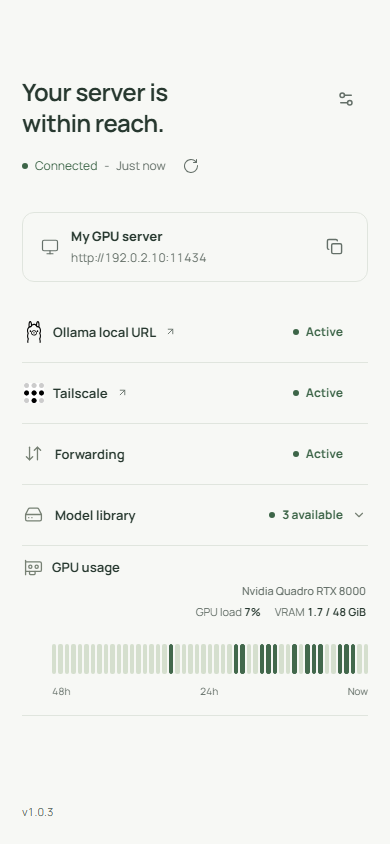
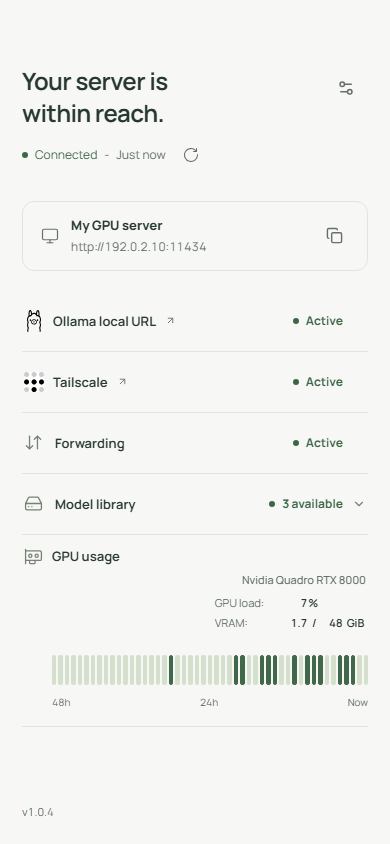
Keep GPU load and VRAM readings aligned on separate lines

diff --git a/app/tests/gpu-metrics.spec.ts b/app/tests/gpu-metrics.spec.ts
@@ -42,7 +42,7 @@ async function installHost(page: Page) {
 
 test('paired GPU load and memory sit below the name and refresh without a readiness probe', async ({ page }) => {
   await installHost(page);
-  await expect(page.locator('.gpu-metrics')).toContainText('VRAM 16 / 48 GiB');
+  await expect(page.locator('.gpu-metrics')).toContainText('VRAM: 16.0 / 48 GiB');
   await expect(page.locator('.gpu-details')).toHaveCSS('text-align', 'right');
   await expect(page.getByText('Remote GPU:', { exact: false })).toHaveCount(0);
   const name = await page.locator('.gpu-name').boundingBox();
@@ -51,22 +51,22 @@ test('paired GPU load and memory sit below the name and refresh without a readin
   const checks = await page.evaluate(() => window.gpuFixture.checks);
   await page.evaluate(() => { window.gpuFixture.metrics!.devices[0].loadPercent = 0; window.gpuFixture.metrics!.devices[0].memoryUsedMib = 0; });
   await page.clock.runFor(5100);
-  await expect(page.locator('.gpu-metrics')).toContainText('GPU load 0%');
-  await expect(page.locator('.gpu-metrics')).toContainText('VRAM 0 / 48 GiB');
+  await expect(page.locator('.gpu-metrics')).toContainText('GPU load: 0%');
+  await expect(page.locator('.gpu-metrics')).toContainText('VRAM: 0.0 / 48 GiB');
   expect(await page.evaluate(() => window.gpuFixture.checks)).toBe(checks);
   await page.evaluate(() => { window.gpuFixture.metrics!.devices[0].loadPercent = null; });
   await page.clock.runFor(5100);
-  await expect(page.locator('.gpu-metrics')).toContainText('GPU load N/A');
-  await expect(page.locator('.gpu-metrics')).toContainText('VRAM 0 / 48 GiB');
+  await expect(page.locator('.gpu-metrics')).toContainText('GPU load: N/A');
+  await expect(page.locator('.gpu-metrics')).toContainText('VRAM: 0.0 / 48 GiB');
 });
 
 test('expired GPU readings disappear even while the next request is stalled', async ({ page }) => {
   await installHost(page);
   await page.evaluate(() => { window.gpuFixture.hold = true; window.gpuFixture.metrics!.sampleAgeMs = 15001; });
   await page.clock.runFor(16000);
-  await expect(page.locator('.gpu-metrics')).toHaveText('GPU load N/AVRAM N/A');
+  await expect(page.locator('.gpu-metrics')).toHaveText('GPU load: N/AVRAM: N/A');
   await page.evaluate(() => { window.gpuFixture.hold = false; window.gpuFixture.release.splice(0).forEach(resolve => resolve()); });
-  await expect(page.locator('.gpu-metrics')).toHaveText('GPU load N/AVRAM N/A');
+  await expect(page.locator('.gpu-metrics')).toHaveText('GPU load: N/AVRAM: N/A');
   await expect(page.getByRole('heading', { name: 'Your server is within reach.' })).toBeVisible();
 });
 
@@ -79,13 +79,13 @@ test('hidden windows pause polling and resume with new readings', async ({ page 
   const before = await page.evaluate(() => window.gpuFixture.calls);
   await page.clock.runFor(20000);
   expect(await page.evaluate(() => window.gpuFixture.calls)).toBe(before);
-  await expect(page.locator('.gpu-metrics')).toContainText('GPU load N/A');
+  await expect(page.locator('.gpu-metrics')).toContainText('GPU load: N/A');
   await page.evaluate(() => {
     window.gpuFixture.metrics!.devices[0].loadPercent = 23;
     Object.defineProperty(document, 'hidden', { configurable: true, value: false });
     document.dispatchEvent(new Event('visibilitychange'));
   });
-  await expect(page.locator('.gpu-metrics')).toContainText('GPU load 23%');
+  await expect(page.locator('.gpu-metrics')).toContainText('GPU load: 23%');
 });
 
 test('a late response from the old server cannot populate a new connection', async ({ page }) => {
@@ -97,7 +97,7 @@ test('a late response from the old server cannot populate a new connection', asy
   await page.evaluate(() => { window.gpuFixture.metrics = null; window.gpuFixture.hold = false; });
   await page.getByRole('button', { name: 'Save', exact: true }).click();
   await page.evaluate(() => window.gpuFixture.release.splice(0).forEach(resolve => resolve()));
-  await expect(page.locator('.gpu-metrics')).toHaveText('GPU load N/AVRAM N/A');
+  await expect(page.locator('.gpu-metrics')).toHaveText('GPU load: N/AVRAM: N/A');
   await page.clock.runFor(2100);
   await expect(page.locator('.endpoint')).toHaveText('http://192.0.2.11:11434');
 });

diff --git a/app/src/GpuActivity.tsx b/app/src/GpuActivity.tsx
@@ -5,8 +5,9 @@ import { STALE_AFTER_MS } from './timing';
 import { gpuBarVariants, type GpuBarVariant } from './gpuBarVariants';
 
 const HOUR = 60 * 60 * 1000;
-const gib = new Intl.NumberFormat(undefined, { maximumFractionDigits: 1 });
-const memory = (mib: number | null | undefined) => mib == null ? 'N/A' : gib.format(mib / 1024);
+const usedMemory = new Intl.NumberFormat(undefined, { minimumFractionDigits: 1, maximumFractionDigits: 1, useGrouping: false });
+const totalMemory = new Intl.NumberFormat(undefined, { maximumFractionDigits: 1, useGrouping: false });
+const memory = (mib: number | null | undefined, used = false) => mib == null ? 'N/A' : (used ? usedMemory : totalMemory).format(mib / 1024);
 const fullTime = (time: number) => new Intl.DateTimeFormat(undefined, { weekday: 'short', hour: 'numeric', minute: '2-digit' }).format(time);
 
 function tooltipTime(time: number) {
@@ -48,11 +49,26 @@ export default function GpuActivity({ history, gpuName, metrics, now, stale, var
       <Gpu className="row-icon" size={19} strokeWidth={1.65} aria-hidden="true" /><h2 className="row-title">GPU usage</h2>
       <div className="gpu-details">
         <p className="gpu-name">{deviceName || 'Details not linked'}</p>
-        {(metrics?.devices ?? [null]).map(gpu => <p className="gpu-metrics" key={gpu?.index ?? 'unavailable'}>
-          {metrics && metrics.devices.length > 1 && <span>GPU {gpu?.index}</span>}
-          <span>GPU load <strong>{gpu?.loadPercent == null ? 'N/A' : gpu.loadPercent + '%'}</strong></span>
-          <span>VRAM <strong>{gpu?.memoryUsedMib == null && gpu?.memoryTotalMib == null ? 'N/A' : memory(gpu?.memoryUsedMib) + ' / ' + memory(gpu?.memoryTotalMib) + ' GiB'}</strong></span>
-        </p>)}
+        {(metrics?.devices ?? [null]).map(gpu => {
+          const hasMemory = gpu?.memoryUsedMib != null || gpu?.memoryTotalMib != null;
+          const numberColumns = {
+            '--gpu-used-width': Math.max(5, memory(gpu?.memoryTotalMib, true).length) + 'ch',
+            '--gpu-total-width': Math.max(3, memory(gpu?.memoryTotalMib).length) + 'ch',
+          } as CSSProperties;
+          return <div className="gpu-readings" key={gpu?.index ?? 'unavailable'}>
+            {metrics && metrics.devices.length > 1 && <p className="gpu-index">GPU {gpu?.index}</p>}
+            <dl className="gpu-metrics" style={numberColumns}>
+              <div className="gpu-metric-row">
+                <dt>GPU load:{' '}</dt>
+                <dd><span className="gpu-load-number">{gpu?.loadPercent ?? 'N/A'}</span><span className="gpu-load-unit">{gpu?.loadPercent == null ? '' : '%'}</span></dd>
+              </div>
+              <div className="gpu-metric-row">
+                <dt>VRAM:{' '}</dt>
+                <dd><span className="gpu-memory-used">{memory(gpu?.memoryUsedMib, true)}</span><span className="gpu-memory-divider">{hasMemory ? ' / ' : ''}</span><span className="gpu-memory-total">{hasMemory ? memory(gpu?.memoryTotalMib) : ''}</span><span className="gpu-memory-unit">{hasMemory ? ' GiB' : ''}</span></dd>
+              </div>
+            </dl>
+          </div>;
+        })}
       </div>
     </div>}
     <div className="activity-body">

diff --git a/app/src/styles.css b/app/src/styles.css
@@ -132,9 +132,15 @@ details[open] .row-chevron { transform: rotate(180deg); }
 .activity-body { margin-left: 33px; padding-bottom: 16px; }
 .gpu-details { margin: 0 19px 0 auto; min-width: 0; text-align: right; }
 .gpu-name { margin: 0; color: var(--muted); font-size: 12px; font-weight: 500; line-height: 1.5; overflow-wrap: anywhere; }
-.gpu-metrics { display: flex; justify-content: flex-end; flex-wrap: wrap; gap: 2px 14px; margin: 4px 0 0; color: var(--muted); font-size: 11px; line-height: 1.6; font-variant-numeric: tabular-nums; }
-.gpu-metrics span { white-space: nowrap; }
-.gpu-metrics strong { color: var(--ink); font-weight: 600; }
+.gpu-metrics { display: grid; grid-template-columns: max-content calc(var(--gpu-used-width) + var(--gpu-total-width) + 6ch); gap: 2px 8px; width: max-content; margin: 6px 0 0 auto; color: var(--muted); font-size: 11px; line-height: 1.6; font-variant-numeric: tabular-nums; text-align: left; }
+.gpu-metric-row { display: contents; }
+.gpu-metrics dt, .gpu-metrics dd { margin: 0; white-space: nowrap; }
+.gpu-metrics dd { display: grid; grid-template-columns: var(--gpu-used-width) 2ch var(--gpu-total-width) 4ch; color: var(--ink); font-weight: 600; }
+.gpu-load-number, .gpu-memory-used, .gpu-memory-total { text-align: right; }
+.gpu-load-unit { padding-left: 1px; }
+.gpu-memory-divider { text-align: center; }
+.gpu-memory-unit { padding-left: 4px; }
+.gpu-index { margin: 8px 0 0; color: var(--muted); font-size: 11px; }
 .activity-strip { --bar-width: 4px; --bar-height: 30px; --bar-gap: 3px; --bar-radius: 1.5px; --bar-idle: #b7c5b0; --bar-edge: transparent; }
 .bars-slender { --bar-width: 6px; --bar-height: 30px; --bar-gap: 3px; --bar-radius: 2px; --bar-idle: #d5dfce; }
 .bars-tall { --bar-width: 4px; --bar-height: 38px; --bar-gap: 3px; --bar-idle: #c6d2be; }

diff --git a/app/tests/updates.spec.ts b/app/tests/updates.spec.ts
@@ -5,7 +5,7 @@ test('version is at the bottom and an up-to-date app stays quiet', async ({ page
   await page.setViewportSize({ width: 1120, height: 760 });
   await page.goto('/?demo=healthy');
   const footer = page.getByRole('contentinfo', { name: 'App version and updates' });
-  await expect(footer).toContainText('v1.0.3');
+  await expect(footer).toContainText('v1.0.4');
   await expect(footer.getByRole('button')).toHaveCount(0);
   const version = await page.locator('.app-version').boundingBox();
   expect(version!.x).toBeLessThan(30);
@@ -57,7 +57,7 @@ test('Android shows its version without update controls, even when a newer relea
   const page = await context.newPage();
   await page.goto('/?demo=healthy&update=available');
   const footer = page.getByRole('contentinfo', { name: 'App version and updates' });
-  await expect(footer).toContainText('v1.0.3');
+  await expect(footer).toContainText('v1.0.4');
   await expect(footer.getByRole('button')).toHaveCount(0);
   expect(await page.evaluate(() => document.documentElement.scrollWidth <= innerWidth)).toBe(true);
   const audit = await new AxeBuilder({ page }).withTags(['wcag2a', 'wcag2aa', 'wcag21aa']).analyze();

diff --git a/docs/releases/v1.0.4.md b/docs/releases/v1.0.4.md
@@ -1,0 +1,5 @@
+A steadier glance at your GPU.
+
+GPU load and VRAM now sit on separate lines beneath the GPU name. Fixed number columns keep labels and units still as readings change.
+
+GPU readings refresh about every five seconds while Shambu is visible.
